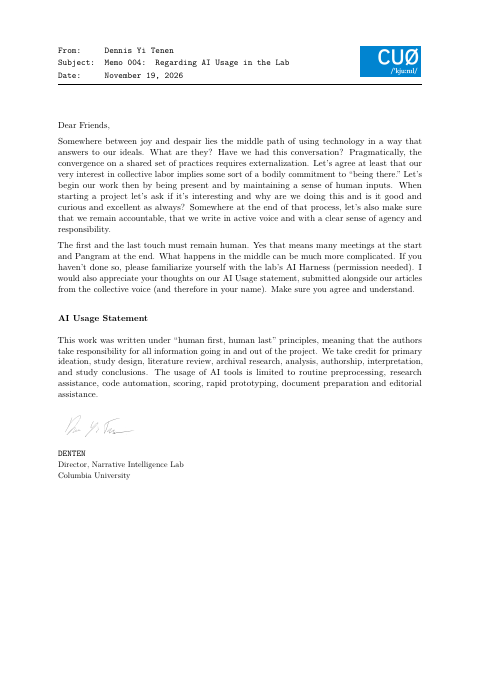
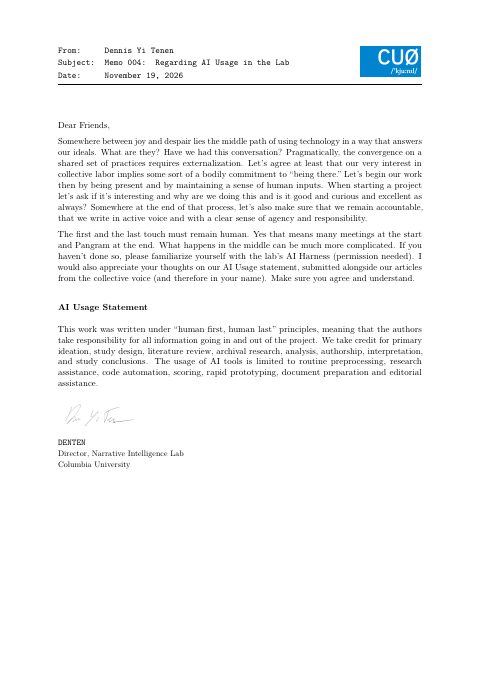
memo 004: "answers our ideals"

Changed region(s): [[0.125, 0.1856, 0.875, 0.7113]]

diff --git a/collections/_memos/4-ai-usage.md b/collections/_memos/4-ai-usage.md
@@ -22,7 +22,7 @@ header-includes: |
 Dear Friends,
 
 Somewhere between joy and despair lies the middle path of using technology in a way that
-answers to our ideals. What are they? Have we had this conversation? Pragmatically, the
+answers our ideals. What are they? Have we had this conversation? Pragmatically, the
 convergence on a shared set of practices requires externalization. Let's agree at least that
 our very interest in collective labor implies some sort of a bodily commitment to "being
 there." Let's begin our work then by being present and by maintaining a sense of human inputs.
